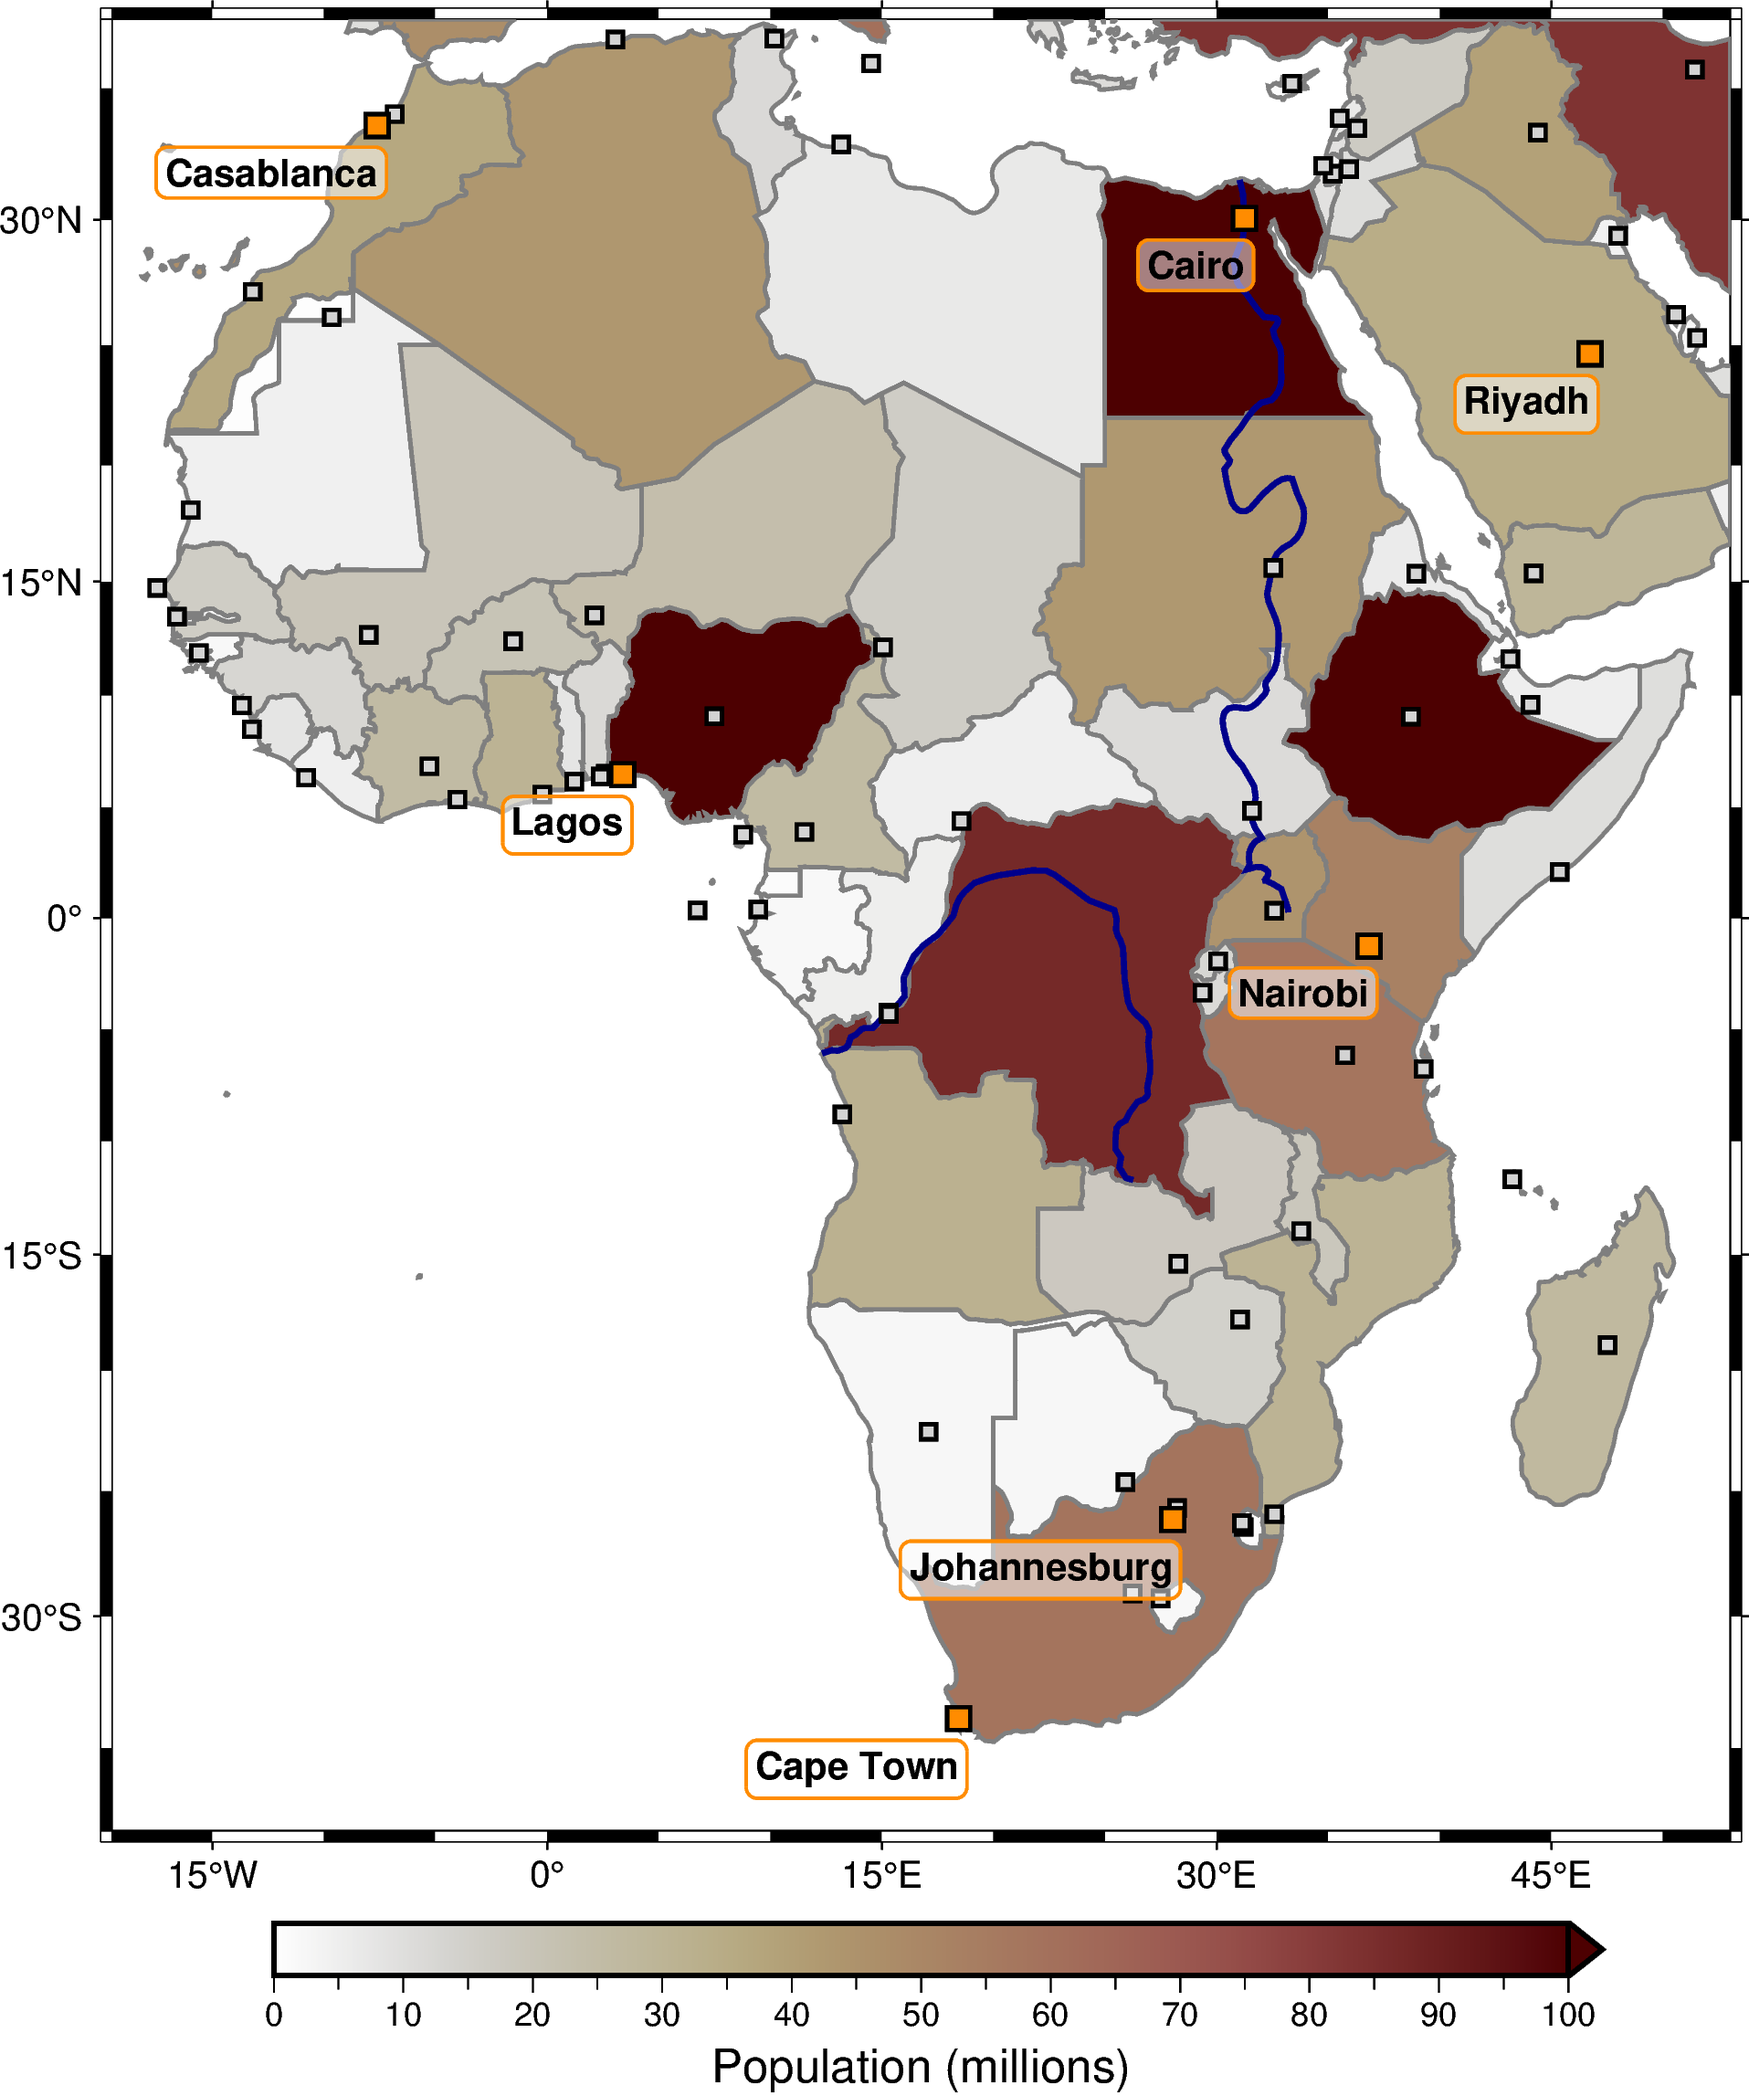
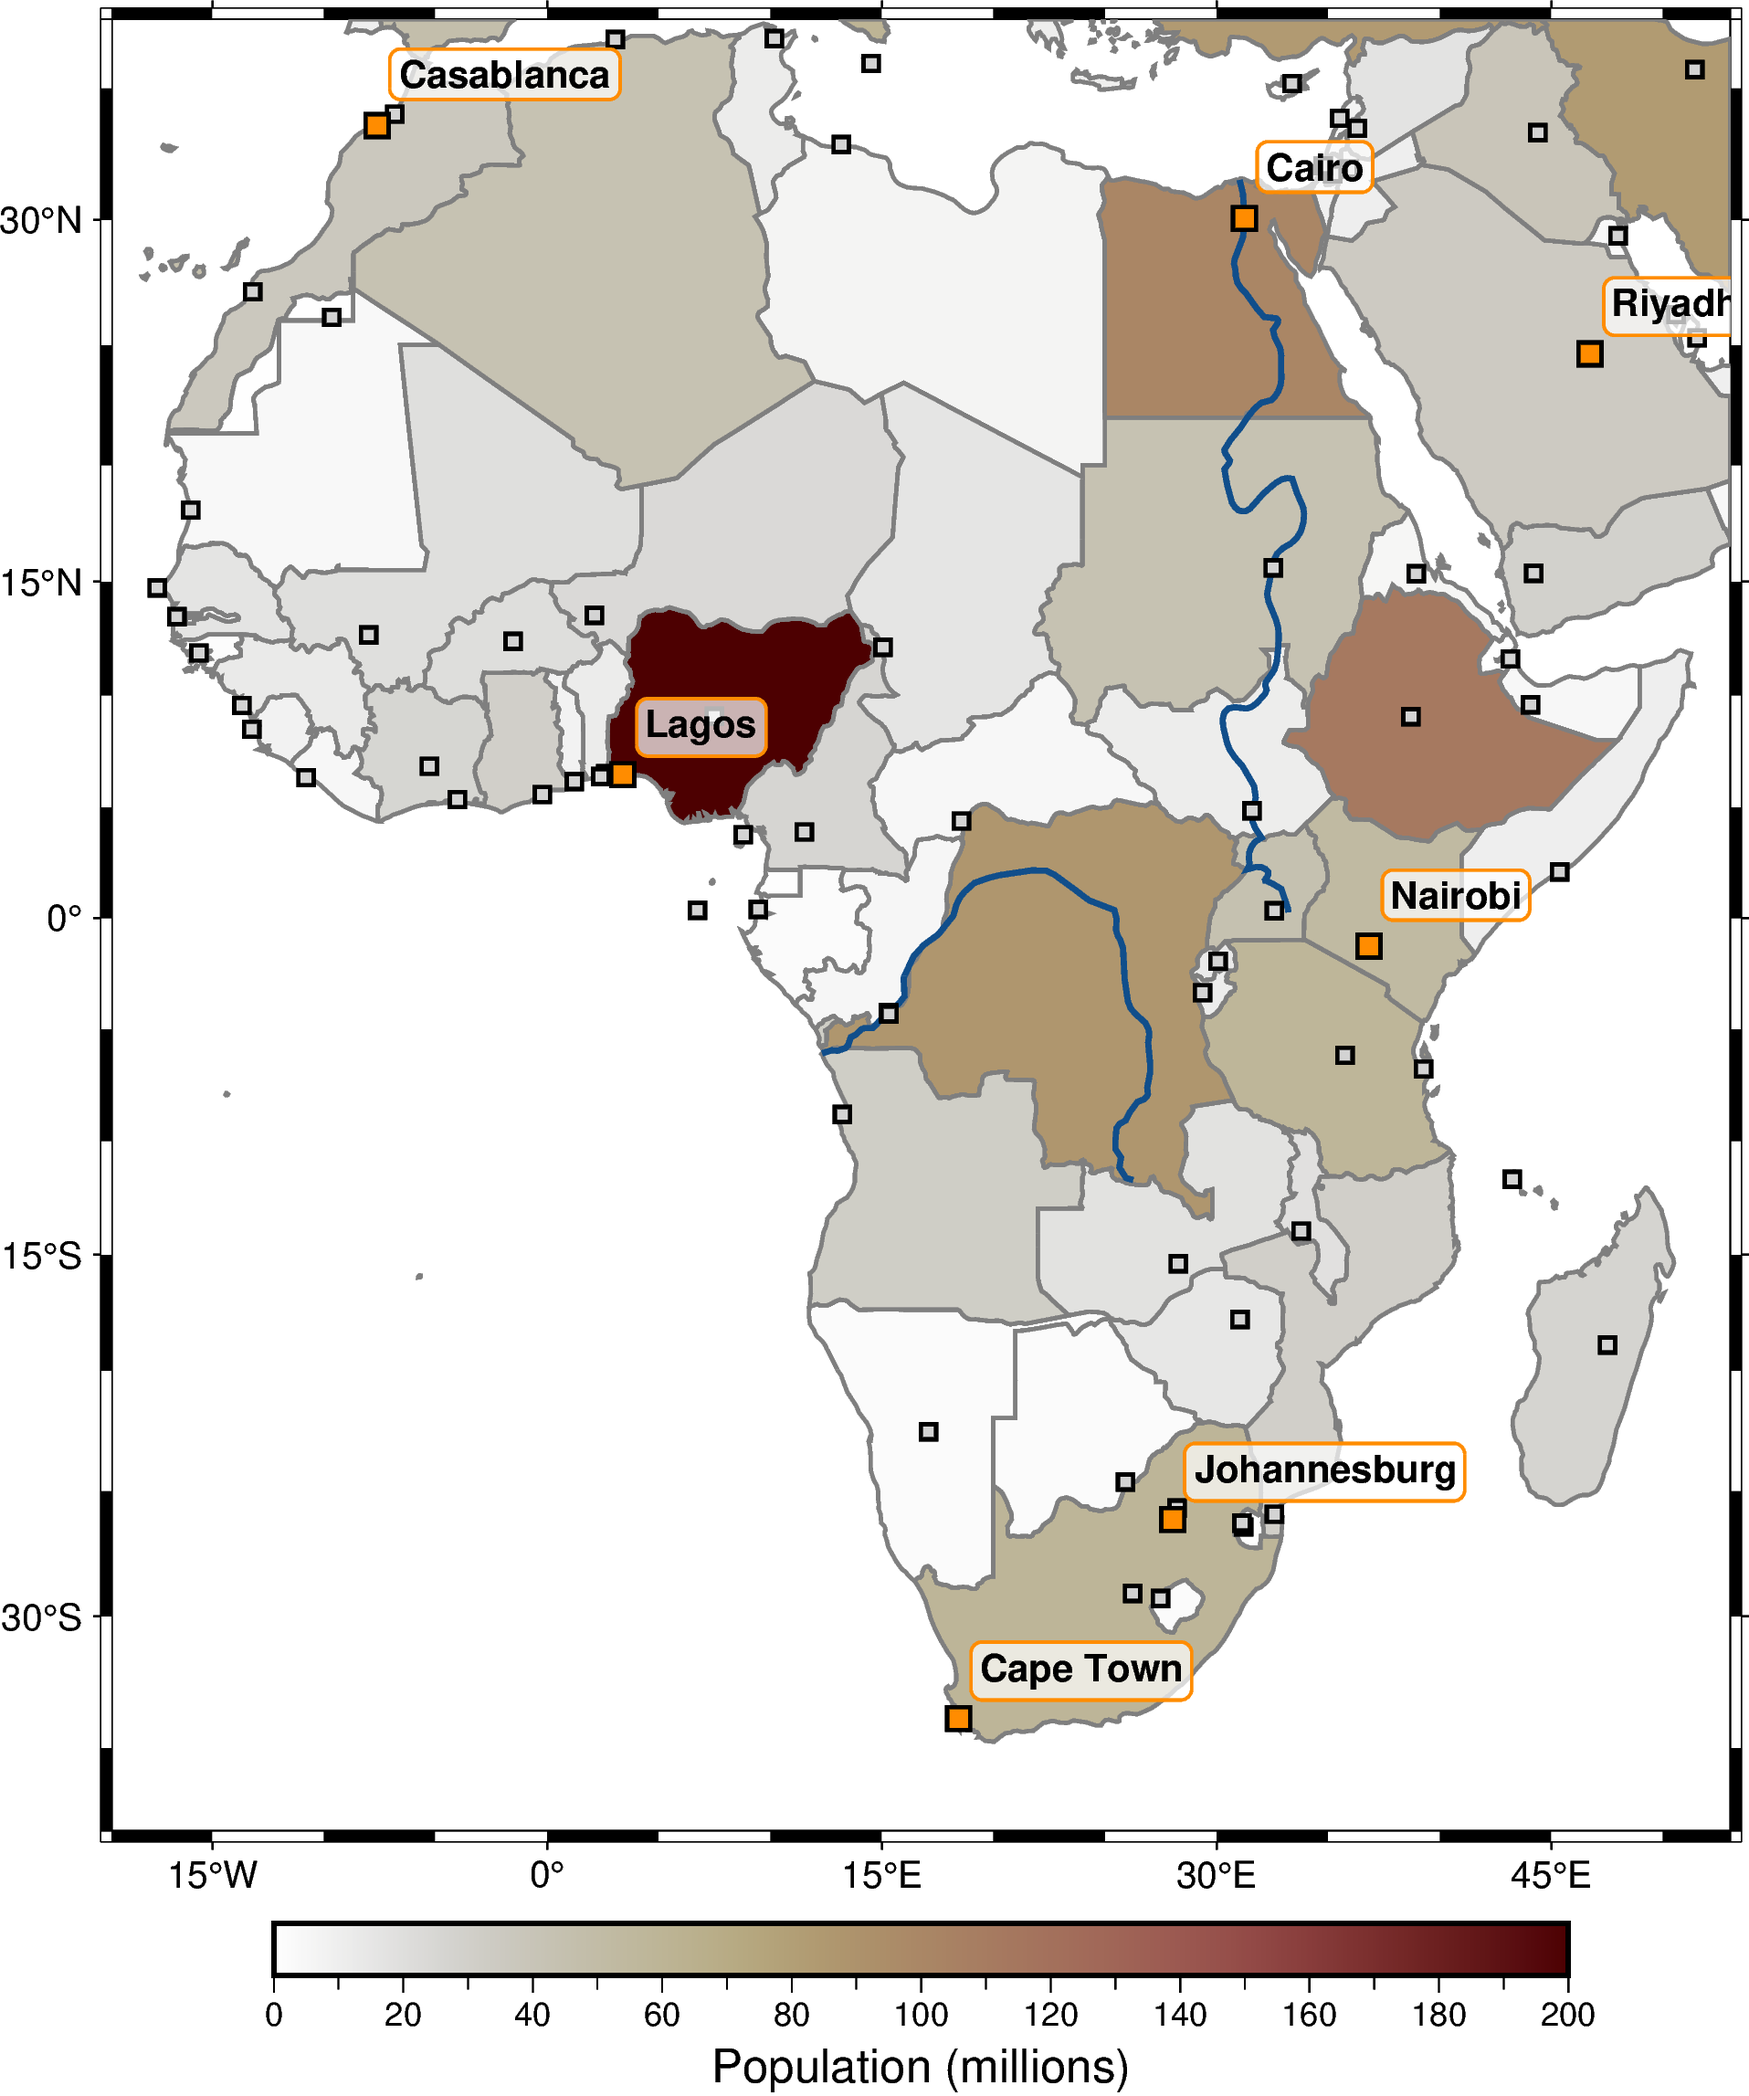
Add just colorbar frame

diff --git a/Fig6_PyGMT_geopandas.py b/Fig6_PyGMT_geopandas.py
@@ -13,13 +13,13 @@ fig = pygmt.Figure()
 fig.basemap(region=[-19.5, 53, -38, 37.5], projection="M15c", frame=True)
 
 pygmt.makecpt(cmap="bilbao", series=(0, 200))
-fig.plot(data=world, pen="1p,gray50", fill="+z", cmap=True, aspatial="Z=POP_EST")
-fig.colorbar(frame="x10f5+lPopulation (millions)")
+fig.plot(data=world[["geometry", "POP_EST"]], pen="1p,gray50", fill="+z", cmap=True, aspatial="Z=POP_EST")
+fig.colorbar(frame="x20f10+lPopulation (millions)")
 
-fig.plot(data=rivers, pen="1.5p,dodgerblue4")
+fig.plot(data=rivers["geometry"], pen="1.5p,dodgerblue4")
 
-fig.plot(data=cities_small, style="s0.2c", fill="lightgray", pen="1p")
-fig.plot(data=cities_world, style="s0.3c", fill="darkorange", pen="1p")
+fig.plot(data=cities_small["geometry"], style="s0.2c", fill="lightgray", pen="1p")
+fig.plot(data=cities_world["geometry"], style="s0.3c", fill="darkorange", pen="1p")
 fig.text(
     x=cities_world.geometry.x,
     y=cities_world.geometry.y,
